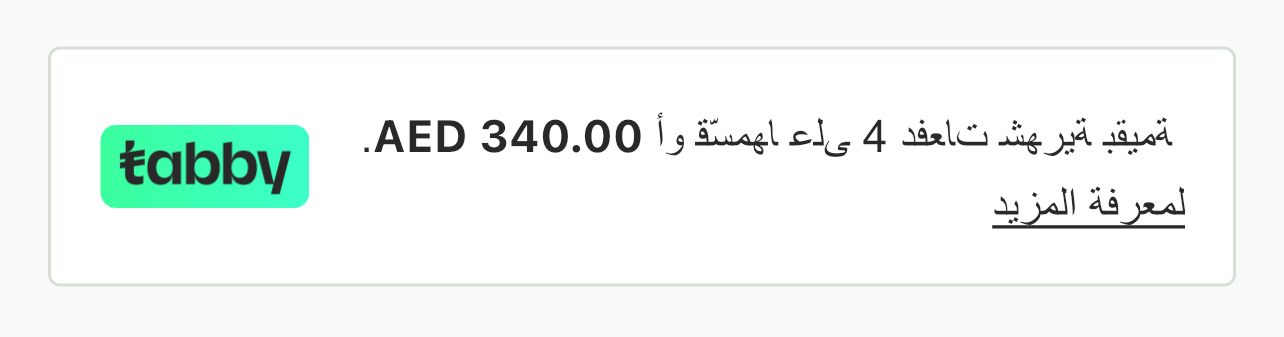
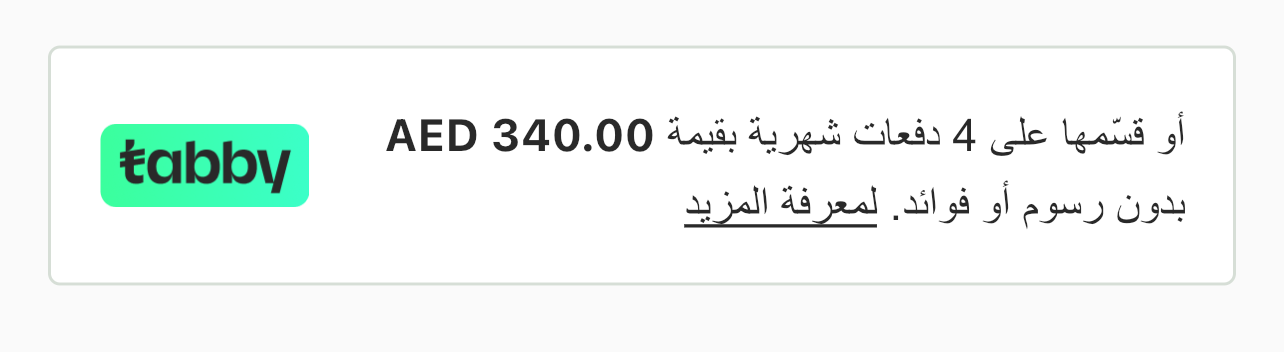
Fixed review

diff --git a/lib/src/internal/tabby_checkout_button.dart b/lib/src/internal/tabby_checkout_button.dart
@@ -1,12 +1,14 @@
 import 'package:flutter/material.dart';
+import 'package:flutter_inappwebview/flutter_inappwebview.dart';
 import 'package:tabby_flutter_sdk/tabby_flutter_sdk.dart';
 
-class TabbyCheckoutButton extends StatelessWidget {
-  const TabbyCheckoutButton({
+import 'fixtures.dart';
+
+class TabbyPresentationSnippet extends StatefulWidget {
+  TabbyPresentationSnippet({
     required this.price,
     required this.currency,
     required this.lang,
-    required this.onPressed,
     this.borderColor = const Color(0xFFD6DED6),
     this.backgroundColor = const Color(0xFFFFFFFF),
     this.textColor = const Color(0xFF292929),
@@ -15,27 +17,55 @@ class TabbyCheckoutButton extends StatelessWidget {
   final String price;
   final Currency currency;
   final Lang lang;
-  final Function() onPressed;
   final Color borderColor;
   final Color backgroundColor;
   final Color textColor;
+  final browser = ChromeSafariBrowser();
+
+  @override
+  State<TabbyPresentationSnippet> createState() => _TabbyPresentationSnippetState();
+}
+
+class _TabbyPresentationSnippetState extends State<TabbyPresentationSnippet> {
+  late List<String> localStrings;
+
+  @override
+  void initState() {
+    localStrings = getLocalStrings(
+      price: widget.price,
+      currency: widget.currency,
+      lang: widget.lang,
+    );
+    super.initState();
+  }
+
+  void openWebBrowser() {
+    widget.browser.open(
+      url: Uri.parse(
+        '${snippetWebUrls[widget.lang]}'
+        '?price=${widget.price}&currency=${widget.currency.name}',
+      ),
+      options: ChromeSafariBrowserClassOptions(
+        android: AndroidChromeCustomTabsOptions(
+            shareState: CustomTabsShareState.SHARE_STATE_OFF),
+        ios: IOSSafariOptions(
+          presentationStyle: IOSUIModalPresentationStyle.POPOVER,
+        ),
+      ),
+    );
+  }
 
   @override
   Widget build(BuildContext context) {
-    final localStrings = getLocalStrings(
-      price: price,
-      currency: currency,
-      lang: lang,
-    );
     return GestureDetector(
-      onTap: onPressed,
+      onTap: openWebBrowser,
       child: Container(
         constraints: const BoxConstraints(minWidth: 300, maxWidth: 720),
         padding: const EdgeInsets.all(16),
         decoration: BoxDecoration(
-          color: backgroundColor,
+          color: widget.backgroundColor,
           border: Border.all(
-            color: borderColor,
+            color: widget.borderColor,
             width: 1,
           ),
           borderRadius: const BorderRadius.all(Radius.circular(4)),
@@ -47,8 +77,8 @@ class TabbyCheckoutButton extends StatelessWidget {
                 text: TextSpan(
                   text: localStrings[0],
                   style: TextStyle(
-                    color: textColor,
-                    fontFamily: lang == Lang.ar ? 'Arial' : 'Inter',
+                    color: widget.textColor,
+                    fontFamily: widget.lang == Lang.ar ? 'Arial' : 'Inter',
                     fontSize: 15,
                     height: 1.5,
                   ),
@@ -60,9 +90,16 @@ class TabbyCheckoutButton extends StatelessWidget {
                         fontWeight: FontWeight.bold,
                       ),
                     ),
-                    TextSpan(text: localStrings[2]),
                     TextSpan(
-                      text: localStrings[3],
+                      text: localStrings[2],
+                      style: const TextStyle(
+                        fontFamily: 'Inter',
+                        fontWeight: FontWeight.bold,
+                      ),
+                    ),
+                    TextSpan(text: localStrings[3]),
+                    TextSpan(
+                      text: localStrings[4],
                       style: const TextStyle(
                         decoration: TextDecoration.underline,
                       ),

diff --git a/lib/src/internal/utils.dart b/lib/src/internal/utils.dart
@@ -1,4 +1,5 @@
 import 'package:flutter_inappwebview/flutter_inappwebview.dart';
+import 'package:tabby_flutter_sdk/src/internal/fixtures.dart';
 import 'package:tabby_flutter_sdk/tabby_flutter_sdk.dart';
 
 void printError(Object error, StackTrace stackTrace) {
@@ -50,30 +51,34 @@ List<String> getLocalStrings({
   if (lang == Lang.ar) {
     if (currency == Currency.egp) {
       return [
-        'قسّمها على 4 دفعات شهرية بقيمة',
-        ' ${currency.name} $fullPrice',
+        ' قسّمها على 4 دفعات شهرية بقيمة',
+        fullPrice,
+        ' ${currency.name}',
         '. بدون فوائد، بدون أي رسوم. ',
         'لمعرفة المزيد'
       ];
     }
     return [
-      ' ﺔﻤﻴﻘﺑ ﺔﻳﺮﻬﺷ تﺎﻌﻓد 4 ﻰﻠﻋ ﺎﻬﻤﺴّﻗ وﺃ',
-      ' ${currency.name} $fullPrice',
-      '. ',
+      'أو قسّمها على 4 دفعات شهرية بقيمة ',
+      fullPrice,
+      ' ${currency.name} ',
+      'بدون رسوم أو فوائد. ',
       'لمعرفة المزيد'
     ];
   } else {
     if (currency == Currency.egp) {
       return [
         '4 payments of ',
-        '$fullPrice ${currency.name}',
+        fullPrice,
+        ' ${currency.name}',
         '. No interest. No fees. ',
         'Learn more'
       ];
     }
     return [
       'or 4 interest-free payments of ',
-      '$fullPrice ${currency.name}',
+      fullPrice,
+      ' ${currency.name}',
       '. ',
       'Learn more'
     ];

diff --git a/example/lib/pages/home_page.dart b/example/lib/pages/home_page.dart
@@ -1,5 +1,3 @@
-import 'dart:io';
-
 import 'package:flutter/material.dart';
 import 'package:flutter/scheduler.dart';
 import 'package:tabby_flutter/mock.dart';
@@ -123,10 +121,14 @@ class _HomePageState extends State<HomePage> {
                 onPressed: openCheckOutPage,
                 child: const Text('Open checkout page'),
               ),
+              const SizedBox(height: 24),
+              ElevatedButton(
+                onPressed: openInAppBrowser,
+                child: const Text('Open checkout in-app browser'),
+              ),
               Padding(
                 padding: const EdgeInsets.all(16),
-                child: TabbyCheckoutButton(
-                  onPressed: openInAppBrowser,
+                child: TabbyPresentationSnippet(
                   price: mockPayload.amount,
                   currency: mockPayload.currency,
                   lang: lang,

diff --git a/example/lib/main.dart b/example/lib/main.dart
@@ -8,8 +8,8 @@ Future<void> main() async {
   WidgetsFlutterBinding.ensureInitialized();
 
   TabbySDK().setup(
-    withApiKey: 'pk_test_528adcfa-b906-47b5-9f66-e5cf967e0095',
-    environment: Environment.stage,
+    withApiKey: '', // Put here your Api key
+    environment: Environment.stage, // Or use Environment.production
   );
   runApp(const MyApp());
 }
@@ -30,7 +30,7 @@ class MyApp extends StatelessWidget {
         Locale('en', ''),
         Locale('ar', ''),
       ],
-      // locale: const Locale('ar', ''), // Use it for check Arabic locale
+      locale: const Locale('ar', ''), // Use it for check Arabic locale
       theme: ThemeData(
         primarySwatch: Colors.green,
       ),

diff --git a/lib/src/internal/fixtures.dart b/lib/src/internal/fixtures.dart
@@ -5,3 +5,8 @@ final defaultMerchantUrls = MerchantUrls(
   failure: 'https://checkout.tabby.dev/failure.html',
   cancel: 'https://checkout.tabby.dev/cancel.html',
 );
+
+final snippetWebUrls = <Lang, String>{
+  Lang.en: 'https://checkout.tabby.ai/promos/product-page/installments/en/',
+  Lang.ar: 'https://checkout.tabby.ai/promos/product-page/installments/ar/',
+};

diff --git a/lib/tabby_flutter_sdk.dart b/lib/tabby_flutter_sdk.dart
@@ -1,6 +1,5 @@
 library tabby_flutter_sdk;
 
-export './src/internal/fixtures.dart';
 export './src/internal/tabby_checkout_button.dart';
 export './src/internal/tabby_sdk.dart';
 export './src/internal/tabby_web_view.dart';

diff --git a/lib/src/models/models.dart b/lib/src/models/models.dart
@@ -1,5 +1,6 @@
 import 'dart:io';
 
+import 'package:tabby_flutter_sdk/src/internal/fixtures.dart';
 import 'package:tabby_flutter_sdk/tabby_flutter_sdk.dart';
 
 import './enums.dart';

diff --git a/README.md b/README.md
@@ -1,15 +1,3 @@
-<!-- 
-This README describes the package. If you publish this package to pub.dev,
-this README's contents appear on the landing page for your package.
-
-For information about how to write a good package README, see the guide for
-[writing package pages](https://dart.dev/guides/libraries/writing-package-pages). 
-
-For general information about developing packages, see the Dart guide for
-[creating packages](https://dart.dev/guides/libraries/create-library-packages)
-and the Flutter guide for
-[developing packages and plugins](https://flutter.dev/developing-packages). 
--->
 # Tabby Flutter SDK
 
 Use the Tabby checkout in your Flutter app.
@@ -143,18 +131,17 @@ Also you can use TabbyWebView as inline widget on your page:
   }
 ```
 
-### Snippet
+### TabbyPresentationSnippet
 <p>
   <img src="./docs/snippet_en.png" width="375" title="english button">
   <img src="./docs/snippet_ar.png" width="375" title="arabic button">
 </p>
 
 
-We recommend use `TabbyCheckoutButton` as an entry point to the Tabby checkout:
+For show `TabbyPresentationSnippet` you can add as inline widget on your page:
 
 ```dart
-  TabbyCheckoutButton(
-    onPressed: openInAppBrowser,
+  TabbyPresentationSnippet(
     price: mockPayload.amount,
     currency: mockPayload.currency,
     lang: lang,
